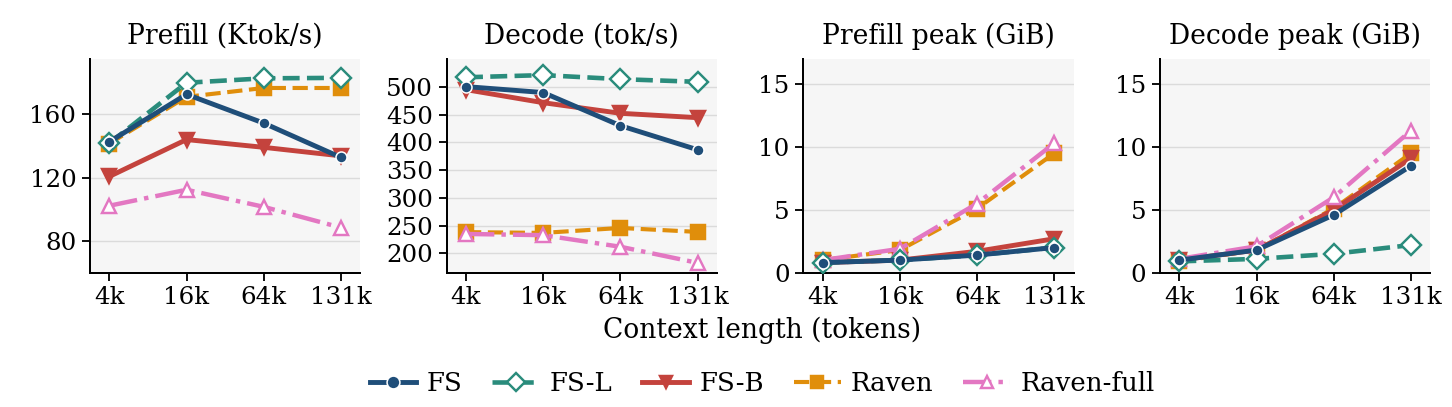
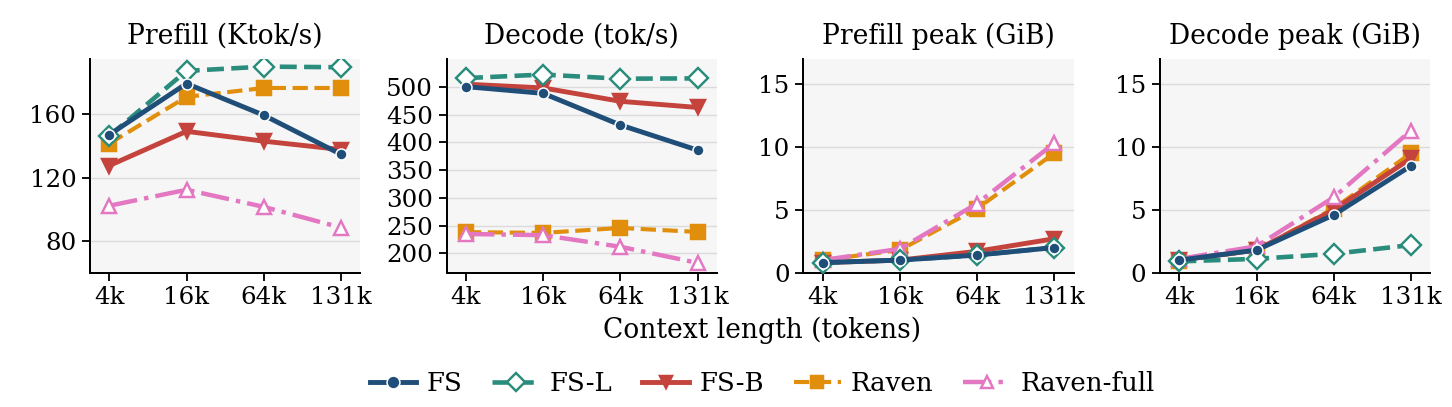
Update the README efficiency table and figure to the shared-decode and prefill-glue numbers from main

Changed region(s): [[0.062, 0.1474, 0.2479, 0.4423], [0.3099, 0.1769, 0.4959, 0.3243]]

diff --git a/README.md b/README.md
@@ -58,9 +58,9 @@ Both variants retrieve single needles at 262k — 64x the training length — wi
 | NAtS-L | 60.1* / 154.0* / 154.0* / 134.9* | 267.8 / 233.7 / 172.3 / 118.2 | 1.2* / 2.6* / 8.2* / 15.6* | 1.4 / 3.1 / 9.9 / 19.0 |
 | Raven | 141.6 / 171.1 / 176.7 / 176.7 | 238.1 / 236.7 / 245.6 / 238.5 | 1.0 / 1.8 / 5.1 / 9.5 | 0.9 / 1.8 / 5.1 / 9.5 |
 | Raven-full | 102.3 / 112.4 / 101.6 / 88.5 | 234.8 / 232.6 / 211.7 / 182.7 | 1.0 / 1.9 / 5.5 / 10.3 | 1.1 / 2.1 / 6.0 / 11.3 |
-| **FS** | 142.7 / 172.7 / 154.5 / 132.8 | 500.3 / 489.6 / 429.9 / 386.5 | 0.8 / 1.0 / 1.4 / 2.0 | 1.0 / 1.8 / 4.6 / 8.5 |
-| **FS-L** | 141.8 / 180.0 / 182.8 / 183.1 | 517.1 / 521.0 / 513.7 / 508.9 | 0.8 / 1.0 / 1.4 / 2.0 | 0.9 / 1.1 / 1.5 / 2.2 |
-| **FS-B** | 120.8 / 144.1 / 139.2 / 133.8 | 494.8 / 471.3 / 452.2 / 444.3 | 0.8 / 1.0 / 1.7 / 2.7 | 1.0 / 1.8 / 5.0 / 9.1 |
+| **FS** | 147.2 / 179.5 / 159.5 / 134.8 | 500.2 / 488.1 / 431.1 / 385.8 | 0.8 / 1.0 / 1.4 / 2.0 | 1.0 / 1.8 / 4.6 / 8.5 |
+| **FS-L** | 146.4 / 187.5 / 190.2 / 189.8 | 515.6 / 522.0 / 514.5 / 515.1 | 0.8 / 1.0 / 1.4 / 2.0 | 0.9 / 1.1 / 1.5 / 2.2 |
+| **FS-B** | 127.7 / 149.3 / 143.1 / 137.8 | 504.7 / 497.9 / 473.8 / 462.7 | 0.8 / 1.0 / 1.7 / 2.7 | 1.0 / 1.8 / 5.0 / 9.1 |
 
 ## Models
 
